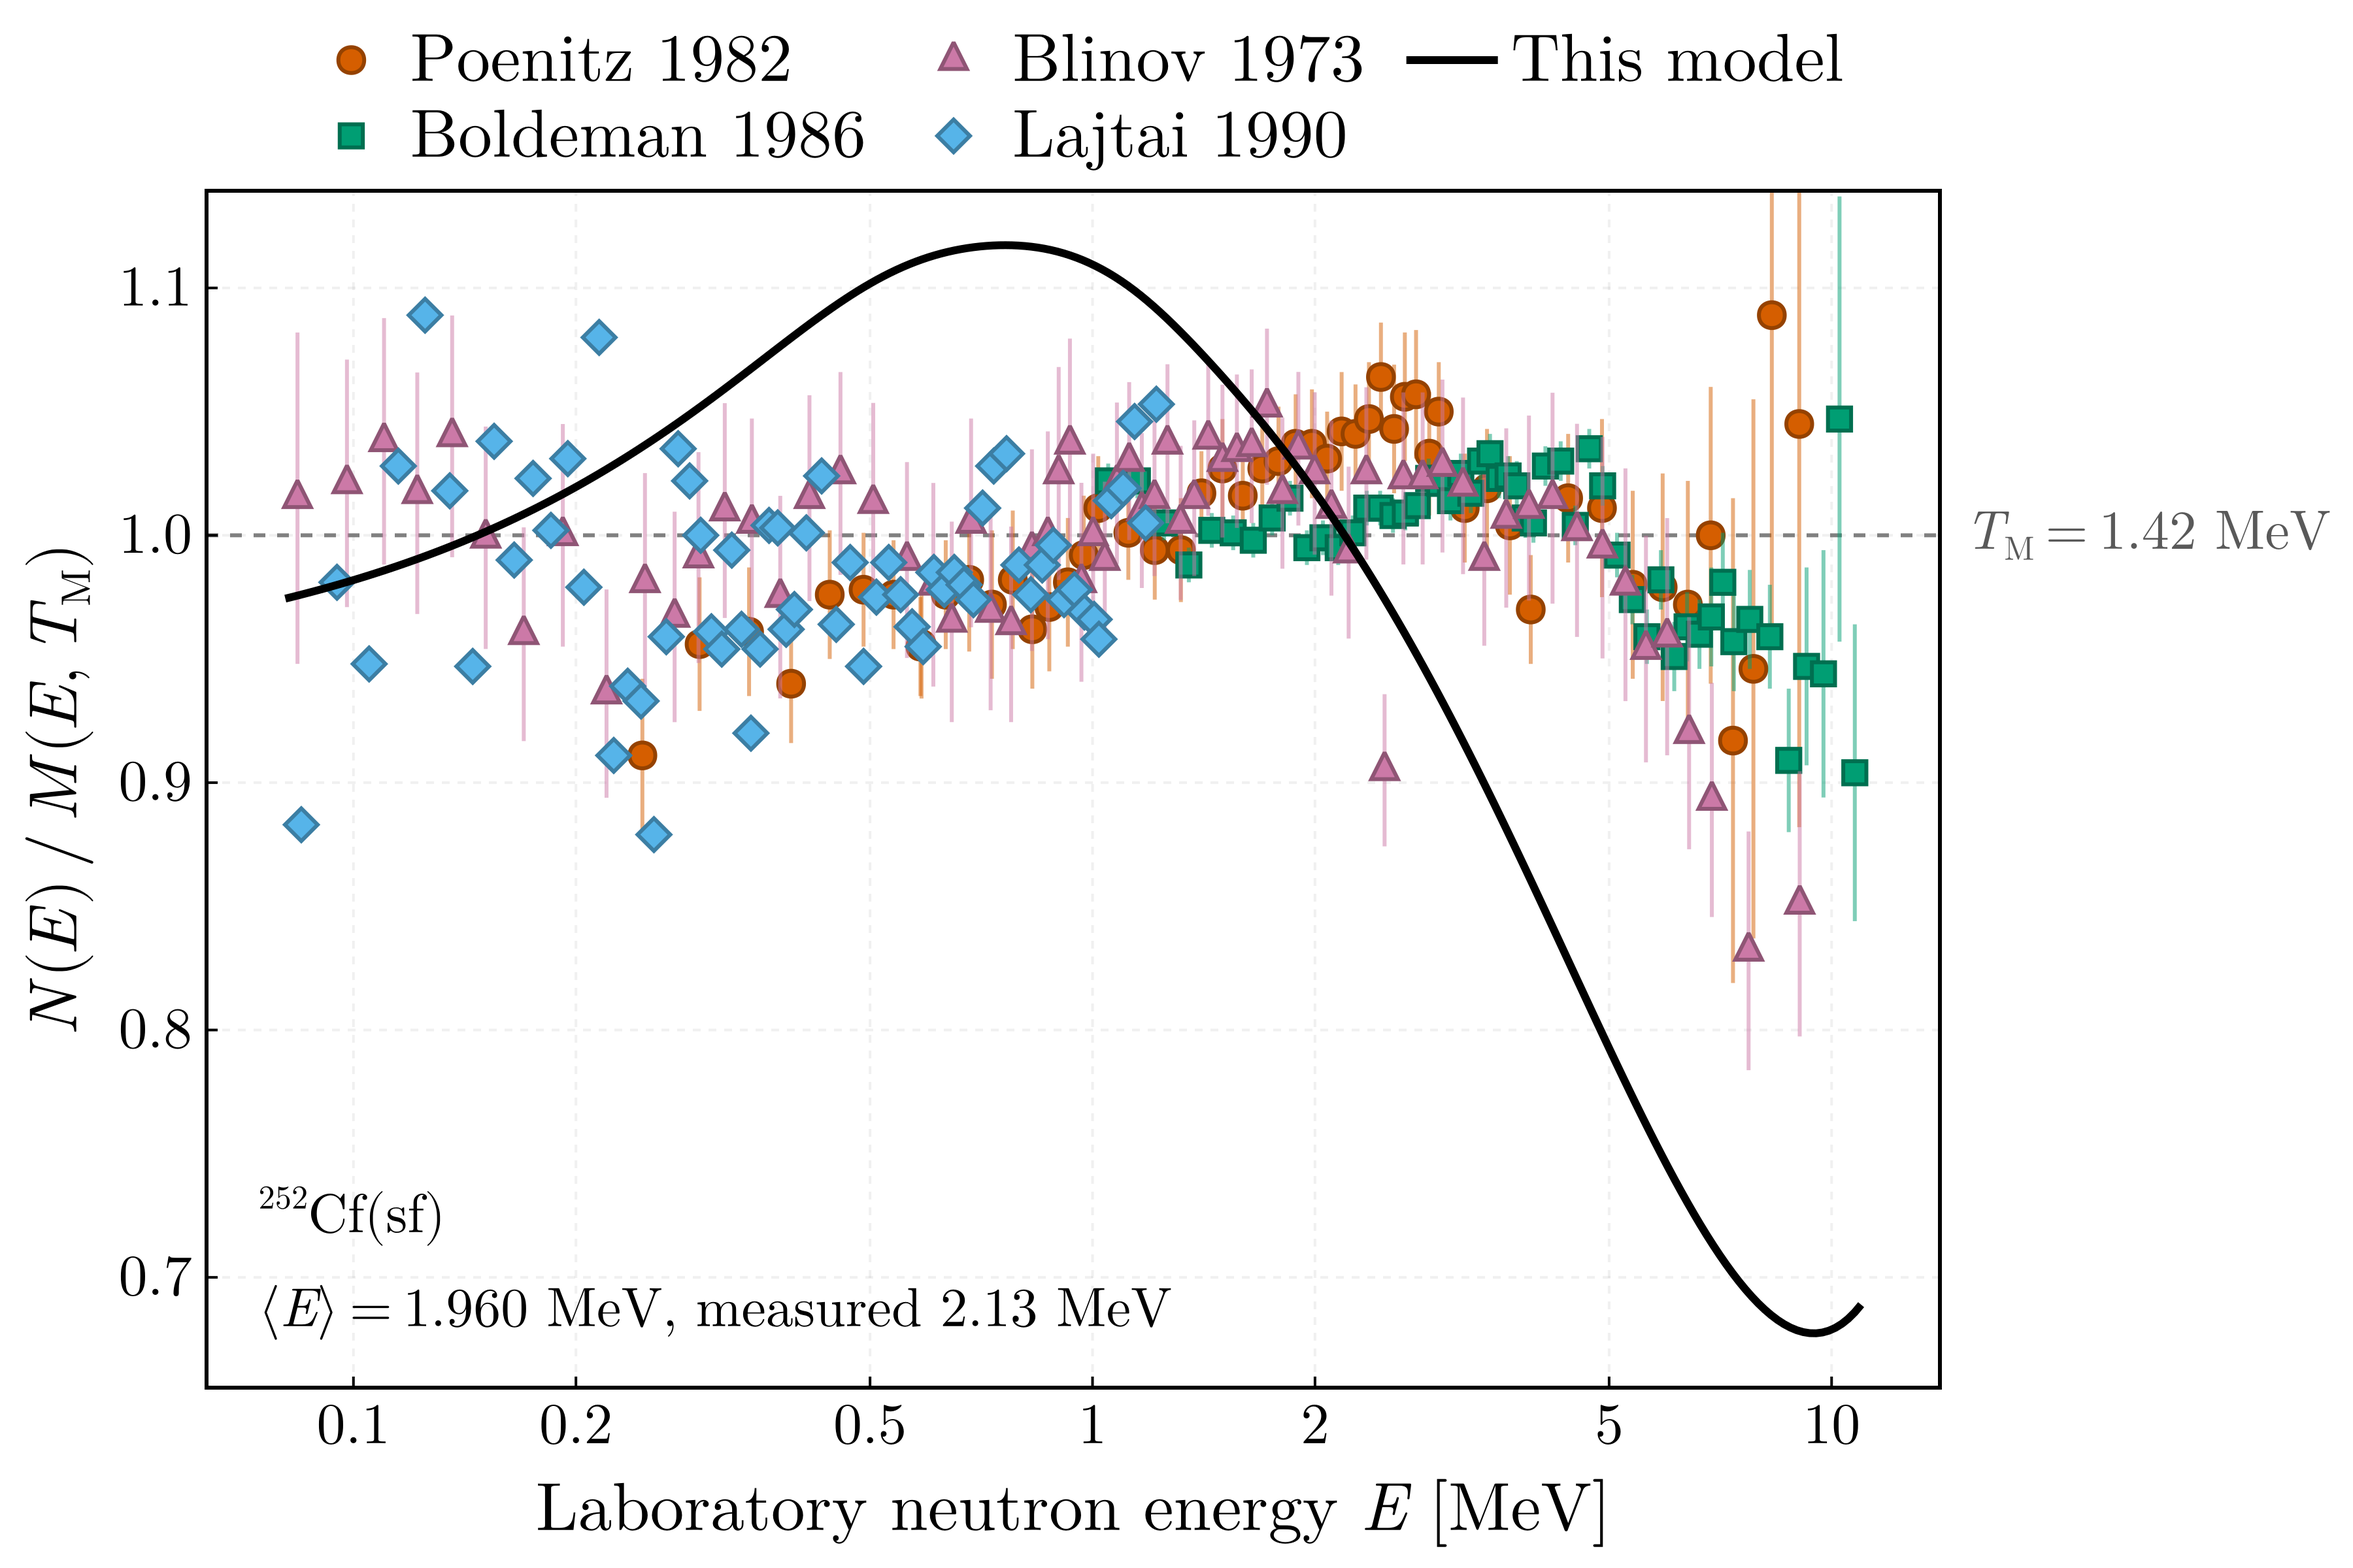
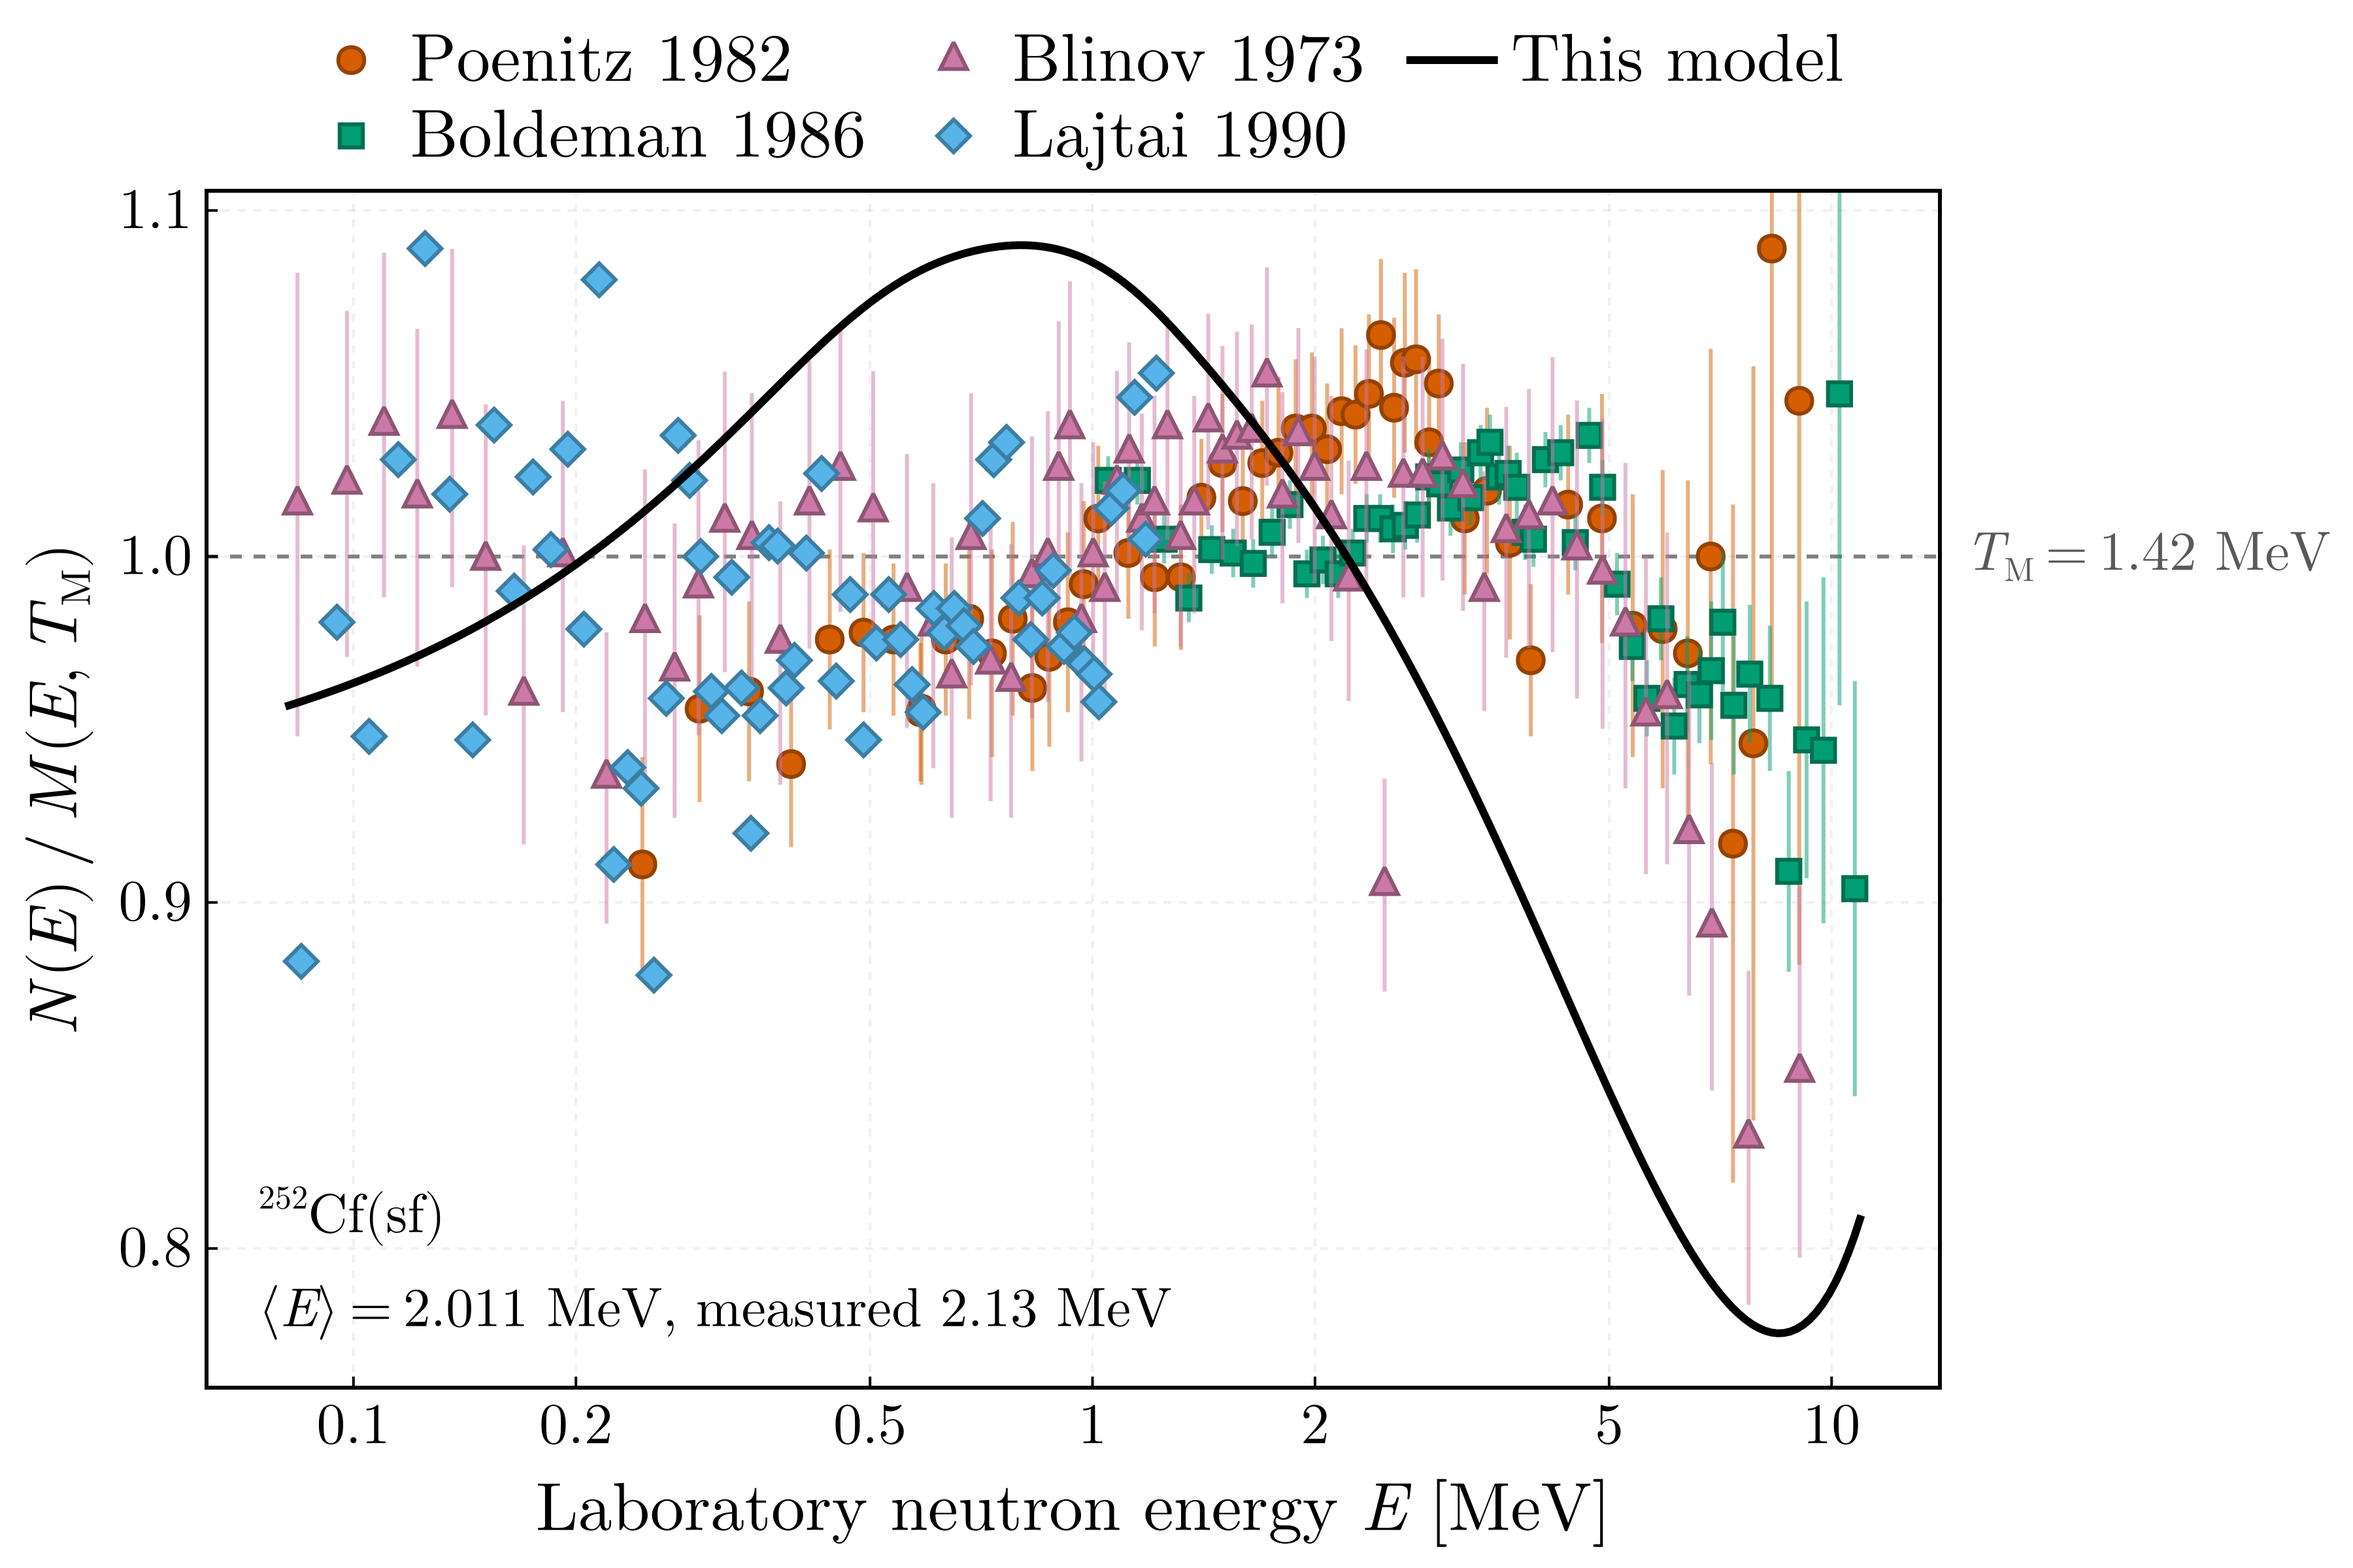
docs(figures): redraw the tracked figures under the per-neutron default
The five shipped configurations were re-run at 97ad0be on a clean tree, and
the figures were drawn from those runs. The multiplicities are unchanged. The
252Cf spectrum now has ⟨E⟩ = 2.011 MeV against 2.13 measured, and the README
paragraph beside it states the new figure and the weighting.

diff --git a/README.md b/README.md
@@ -190,8 +190,10 @@ out within −7 % to +5 % of the evaluated values, with no parameter adjusted pe
 
 The spectrum is the same statement in energy. Model and measurement are both absolute here —
 the model spectrum integrates to one neutron by construction, and every retrieved set is
-reported against the same 1.42 MeV Maxwellian — so nothing is scaled to anything. The model is
-about 8 % soft in `⟨E⟩`, 1.96 MeV against 2.13, and the deficit is in the tail above 3 MeV.
+reported against the same 1.42 MeV Maxwellian — so nothing is scaled to anything. Each
+fragmentation enters the total by its yield times its multiplicity, so every emitted neutron
+counts once, as it does in a measurement. The model is about 6 % soft in `⟨E⟩`, 2.01 MeV
+against 2.13: it lies above the data below 1.5 MeV and below them above 2 MeV.
 
 ## Configuration
 
